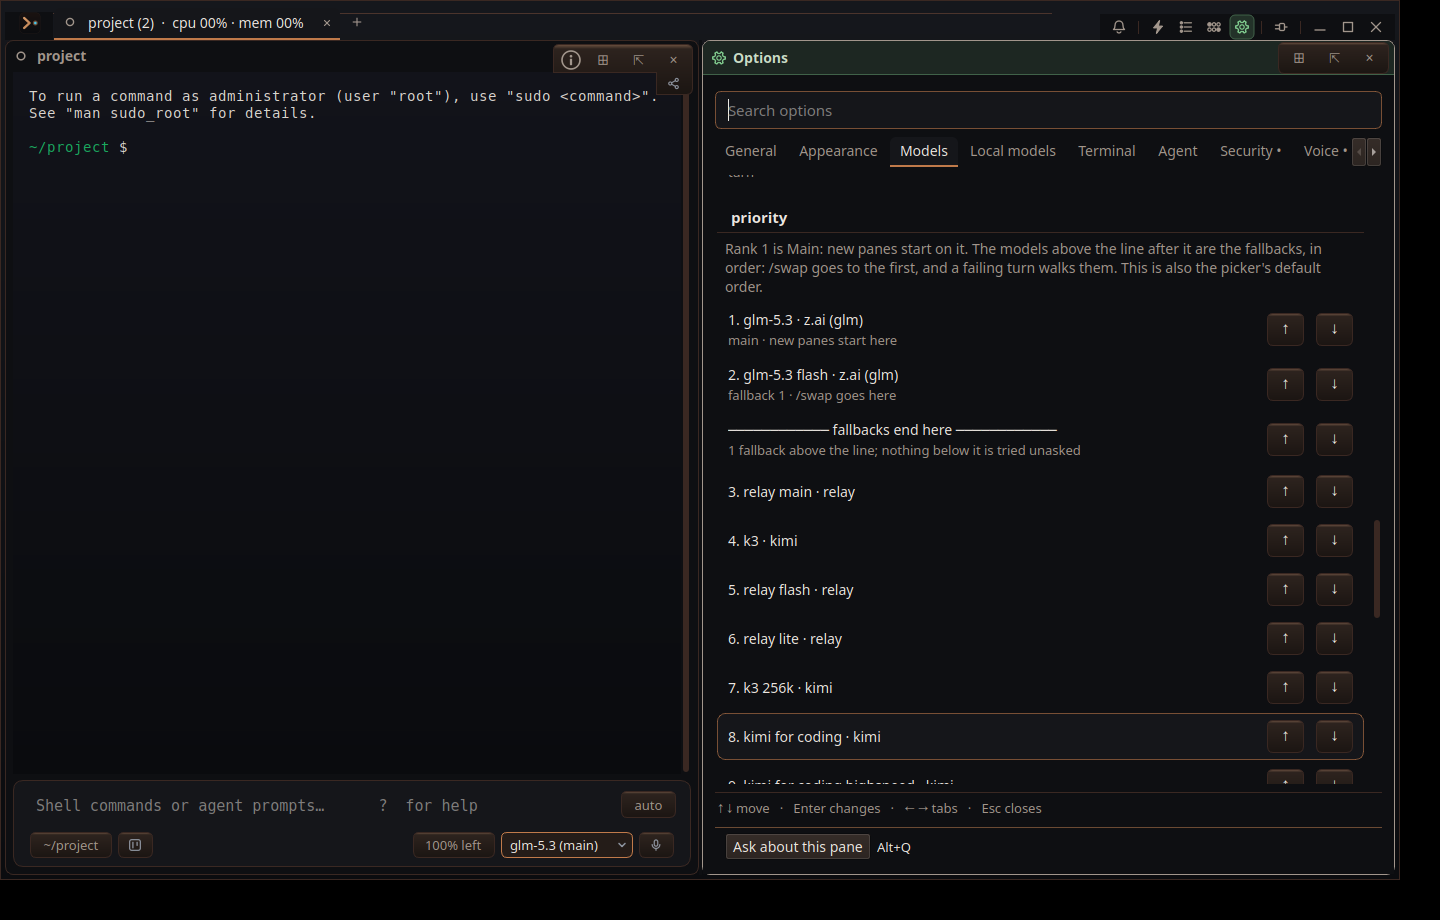
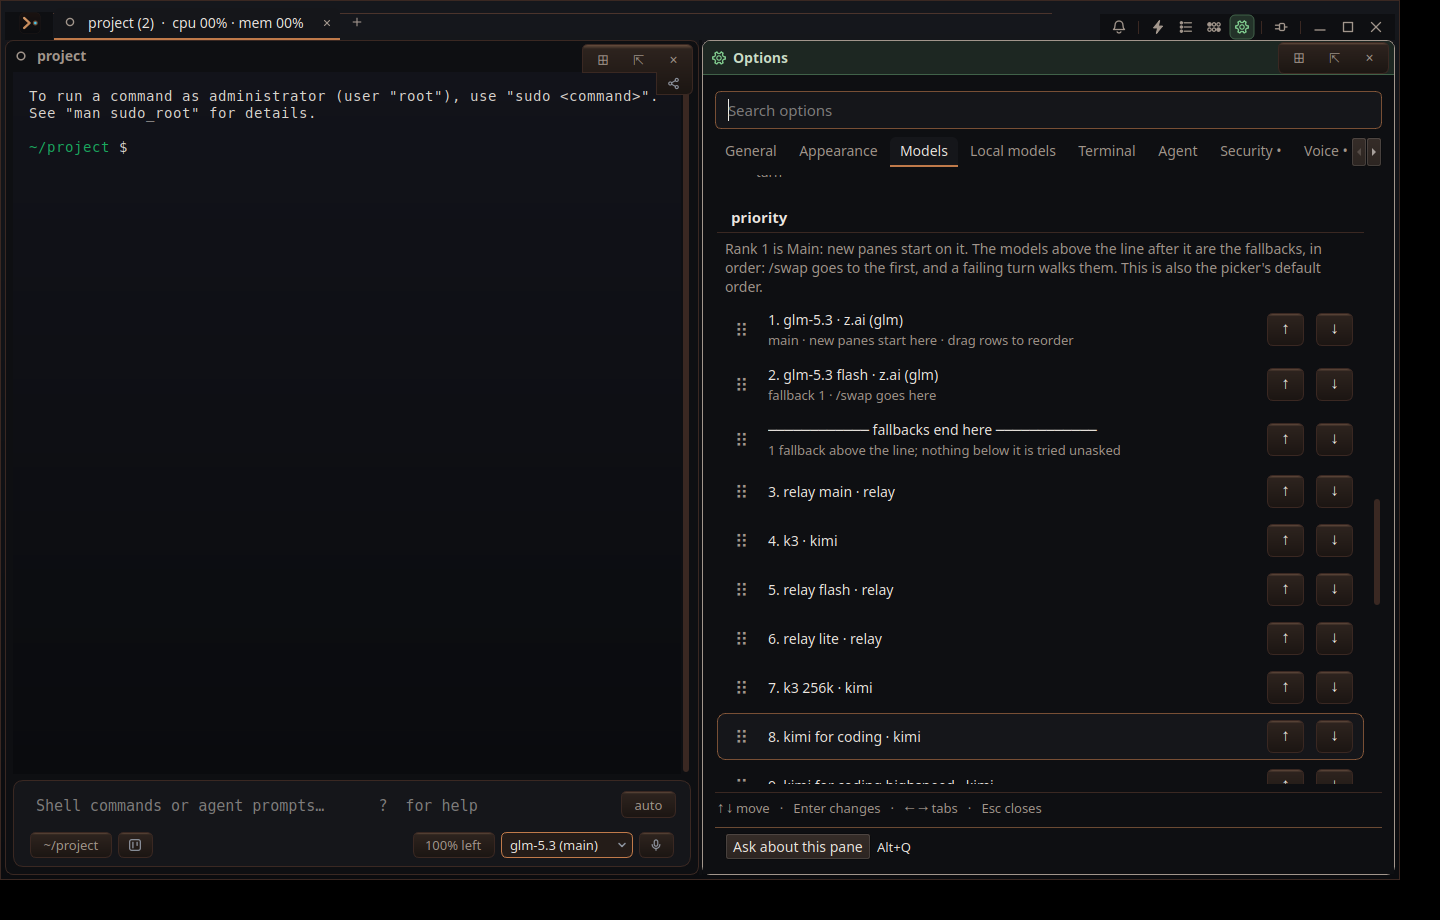
Options › Models: one line per model with the details on hover and ⓘ links; grips on draggable rows; the OpenRouter switch is gone (owner, 2026-09-20)
A provider's row is bold and its models are indented one level; a model row is its name alone,
with the reasoning levels, score and id as the hover text and an ⓘ that opens the model's
OpenRouter page (one page shape for every model) where OpenRouter serves it; a provider's ⓘ opens
its own key page. Rows that can be dragged wear a grip. The per-model 'openrouter fallback' switch
is removed: an OpenRouter model is a model like any other, ranked above the line, so the GUI sends
no failover_openrouter ids.

diff --git a/src/RelayWindow.h b/src/RelayWindow.h
@@ -2059,6 +2059,9 @@ private:
             row.label = label;
             row.detail = status;
             row.aliases = QStringLiteral("provider key api keyring login ") + id + QLatin1Char(' ') + str(preset, "provider").toLower();
+            row.infoUrl = guest ? (id == QStringLiteral("guest:claude") ? QStringLiteral("https://docs.claude.com/en/docs/claude-code")
+                                                                         : QStringLiteral("https://developers.openai.com/codex"))
+                                : str(preset, "key_url");
             row.dragGroup = QStringLiteral("providers");
             row.onDropBefore = [id, curated](const QString &draggedRowId) {
                 relay::models::curation::moveProviderBefore(draggedRowId.section(QLatin1Char(':'), 1), id);
@@ -2119,6 +2122,8 @@ private:
 
         // ----- 2. which models the picker shows -------------------------------------------------
         // One checkbox per provider (owner, 2026-09-20): off hides every model and folds the group.
+        // No per-model "openrouter fallback" here any more (owner, later that day): an OpenRouter
+        // model is a model like any other — add it to the picker and rank it above the line.
         // A provider whose catalog is open-ended (more than six models — OpenRouter's live list)
         // shows only the models you checked plus an id box that completes from the whole list;
         // one whose list is complete (Claude Code, Codex, a plan's three tiers) shows them all and
@@ -2131,11 +2136,6 @@ private:
             info.label = QStringLiteral("A checked model is a row in every pane's model box and in the picker. "
                                         "The reasoning levels are what the model accepts; the level itself is picked per pane.");
             models.rows << info;
-        }
-        bool openrouterKey = false;
-        for (const auto &value : presets) {
-            const QJsonObject preset = value.toObject();
-            if (str(preset, "id") == QStringLiteral("openrouter")) openrouterKey = preset.value(QStringLiteral("has_stored_key")).toBool();
         }
         constexpr int kOpenEnded = 6;   // more catalog models than this: an id box, only the checked shown
         for (const QString &presetId : catalog.presets()) {
@@ -2151,6 +2151,7 @@ private:
             head.detail = collapsed ? QStringLiteral("hidden from the picker · check to show its models")
                                     : QStringLiteral("%1 of %2 models in the picker").arg(shownCount).arg(rows.size());
             head.aliases = QStringLiteral("provider models picker show hide ") + rows.first().provider;
+            head.strong = true;
             head.checked = !collapsed && shownCount > 0;
             head.onToggle = [catalog, presetId, rows, curated](bool on) {
                 relay::models::curation::setCollapsed(presetId, !on);
@@ -2166,45 +2167,34 @@ private:
                 relay::SettingRow row;
                 row.kind = relay::SettingRow::Toggle;
                 row.id = QStringLiteral("option:models/shown/") + entry.key;
-                row.label = QStringLiteral("    ") + entry.label + (entry.custom ? QStringLiteral(" (added by you)") : QString());
+                row.indent = 1;
+                row.label = entry.label + (entry.custom ? QStringLiteral(" (added by you)") : QString());
                 QStringList notes;
                 if (!entry.tier.isEmpty()) notes << QStringLiteral("%1 model").arg(entry.tier);
                 notes << (entry.efforts.isEmpty() ? QStringLiteral("no reasoning setting")
                                                   : QStringLiteral("reasoning ") + entry.efforts.join(QStringLiteral(" · ")));
                 if (entry.intelligence >= 0) notes << QStringLiteral("intelligence %1").arg(entry.intelligence);
                 if (entry.label != entry.model.toLower()) notes << entry.model;
-                row.detail = QStringLiteral("    ") + notes.join(QStringLiteral(" · "));
-                row.aliases = QStringLiteral("model picker show hide ") + entry.model + QLatin1Char(' ') + entry.provider;
+                // One line per model (owner, 2026-09-20): the levels, the score and the id are the
+                // hover, and ⓘ opens the model's OpenRouter page — one page shape for every model,
+                // with context, pricing and the providers behind it — when OpenRouter serves it.
+                row.tooltip = notes.join(QStringLiteral(" · "));
+                if (entry.preset == QStringLiteral("openrouter")) row.infoUrl = QStringLiteral("https://openrouter.ai/") + entry.model;
+                else if (!entry.openrouter.isEmpty()) row.infoUrl = QStringLiteral("https://openrouter.ai/") + entry.openrouter;
+                row.aliases = QStringLiteral("model picker show hide ") + entry.model + QLatin1Char(' ') + entry.provider + QLatin1Char(' ') + row.tooltip;
                 row.checked = relay::models::curation::isShown(entry);
                 row.onToggle = [catalog, key = entry.key, curated](bool on) {
                     relay::models::curation::setShown(key, on, catalog);
                     curated();
                 };
                 models.rows << row;
-                if (openrouterKey && !entry.openrouter.isEmpty() && !entry.guest && !entry.hosted && entry.preset != QStringLiteral("openrouter")) {
-                    // The same model on OpenRouter when this provider fails (owner, 2026-09-20):
-                    // off unless asked for, per model, and only offered once an OpenRouter key is
-                    // stored. Two words; the tooltip-sized detail is the row's aliases.
-                    relay::SettingRow twin;
-                    twin.kind = relay::SettingRow::Toggle;
-                    twin.id = QStringLiteral("option:models/openrouter_fallback/") + entry.key;
-                    twin.label = QStringLiteral("        openrouter fallback");
-                    twin.aliases = QStringLiteral("openrouter fallback failover twin ") + entry.model + QLatin1Char(' ') + entry.openrouter;
-                    twin.checked = relay::models::curation::openrouterFallback(entry.key);
-                    twin.reset = [key = entry.key, this] { relay::models::curation::setOpenrouterFallback(key, false); if (m_active) m_active->agentOptionsChanged(QStringLiteral("models/openrouter_fallback")); };
-                    twin.changed = twin.checked;
-                    twin.onToggle = [this, key = entry.key](bool on) {
-                        relay::models::curation::setOpenrouterFallback(key, on);
-                        if (m_active) m_active->agentOptionsChanged(QStringLiteral("models/openrouter_fallback"));
-                    };
-                    models.rows << twin;
-                }
                 if (entry.custom) {
                     relay::SettingRow remove;
                     remove.kind = relay::SettingRow::Buttons;
                     remove.id = QStringLiteral("models/custom/") + entry.key;
-                    remove.label = QStringLiteral("    remove %1").arg(entry.label);
-                    remove.detail = QStringLiteral("    Forget this id; the provider's own list is unaffected");
+                    remove.indent = 1;
+                    remove.label = QStringLiteral("remove %1").arg(entry.label);
+                    remove.detail = QStringLiteral("Forget this id; the provider's own list is unaffected");
                     remove.buttonTexts = QStringList{QStringLiteral("remove")};
                     remove.onButton = [key = entry.key, curated](int) { relay::models::curation::removeCustom(key); curated(); };
                     models.rows << remove;
@@ -2213,8 +2203,8 @@ private:
             if (openEnded) {
                 // opencode's box: type part of an id and pick from what the provider serves; an id
                 // it does not list is added as typed.
-                relay::SettingRow add = textRow(QStringLiteral("models/add/") + presetId, QStringLiteral("    add a model"),
-                    QStringLiteral("    %1 more on %2 · type to search their ids; an unlisted id is added as typed")
+                relay::SettingRow add = textRow(QStringLiteral("models/add/") + presetId, QStringLiteral("add a model"),
+                    QStringLiteral("%1 more on %2 · type to search their ids; an unlisted id is added as typed")
                         .arg(unlisted.size()).arg(rows.first().provider),
                     QStringLiteral("model id"), [catalog, presetId, curated](const QString &value) {
                         const QString id = value.trimmed();
@@ -2226,6 +2216,7 @@ private:
                         curated();
                     });
                 add.completions = unlisted;
+                add.indent = 1;
                 add.text.clear(); add.changed = false;
                 models.rows << add;
             }
@@ -2237,8 +2228,8 @@ private:
                 const QString key = guestSettingKey(guest, QStringLiteral("permissions"));
                 const QString current = QSettings().value(key).toString().trimmed();
                 relay::SettingRow ask = choiceRow(QStringLiteral("option:") + key,
-                    QStringLiteral("    when it wants to use a tool"),
-                    QStringLiteral("    %1 runs with no per-action approvals, like Relay's own agent. "
+                    QStringLiteral("when it wants to use a tool"),
+                    QStringLiteral("%1 runs with no per-action approvals, like Relay's own agent. "
                                    "Ask me puts each one to you: Allow, Allow for session, "
                                    "Deny, or Deny and stop the turn").arg(rows.first().provider),
                     {QStringLiteral("bypass"), QStringLiteral("ask"), QStringLiteral("deny")},
@@ -2251,6 +2242,7 @@ private:
                         refreshSettingsPanes();
                     });
                 ask.aliases = QStringLiteral("claude codex guest permissions approval ask bypass yolo tools sandbox");
+                ask.indent = 1;
                 models.rows << ask;
             }
         }

diff --git a/src/SettingsPane.cpp b/src/SettingsPane.cpp
@@ -8,6 +8,9 @@
 #include <QComboBox>
 #include <QCoreApplication>
 #include <QDateTime>
+#include <QDesktopServices>
+#include <QToolButton>
+#include <QUrl>
 #include <QDir>
 #include <QDrag>
 #include <QDragEnterEvent>
@@ -604,12 +607,20 @@ QWidget *SettingsPane::settingRow(const SettingRow &row) {
         line->enableDrag();
     }
     auto *box = new QHBoxLayout(line);
-    box->setContentsMargins(10, 6, 10, 6);
+    box->setContentsMargins(10 + 28 * qMax(0, row.indent), 6, 10, 6);
     box->setSpacing(12);
+    if (!row.dragGroup.isEmpty()) {
+        // A grip, so a row that can be dragged looks like one (owner, 2026-09-20: the priority
+        // list "should also be draggable, not just arrows" — it was, and nothing said so).
+        auto *grip = mutedLabel(QStringLiteral("⠿"), "settingsGrip");
+        grip->setToolTip(QStringLiteral("Drag to reorder"));
+        grip->setCursor(Qt::OpenHandCursor);
+        box->addWidget(grip);
+    }
     auto *text = new QVBoxLayout;
     text->setSpacing(1);
     auto *label = new QLabel(row.label);
-    label->setObjectName(QStringLiteral("settingsRowLabel"));
+    label->setObjectName(row.strong ? QStringLiteral("settingsRowLabelStrong") : QStringLiteral("settingsRowLabel"));
     label->setWordWrap(true);
     label->setTextFormat(Qt::PlainText);
     text->addWidget(label);
@@ -630,6 +641,19 @@ QWidget *SettingsPane::settingRow(const SettingRow &row) {
     label->setMinimumWidth(std::min(words + 2, metrics.averageCharWidth() * 18));
     box->addLayout(text, 1);
 
+    if (!row.tooltip.isEmpty()) { line->setToolTip(row.tooltip); label->setToolTip(row.tooltip); }
+    if (!row.infoUrl.isEmpty()) {
+        auto *info = new QToolButton;
+        info->setObjectName(QStringLiteral("settingsInfoLink"));
+        info->setText(QStringLiteral("ⓘ"));
+        info->setAutoRaise(true);
+        info->setCursor(Qt::PointingHandCursor);
+        info->setFocusPolicy(Qt::NoFocus);
+        info->setToolTip(QStringLiteral("About this: %1").arg(row.infoUrl));
+        info->setAccessibleName(QStringLiteral("About %1").arg(row.label));
+        connect(info, &QToolButton::clicked, this, [url = row.infoUrl] { QDesktopServices::openUrl(QUrl(url)); });
+        box->addWidget(info);
+    }
     // Every control writes through the row's callback and then says so, which redraws this pane —
     // so rows that describe other rows ("Flash · glm-5.3-flash") never go stale — and every other
     // Options pane with it. Focus and scroll survive the rebuild, and the rebuild happens on the

diff --git a/src/Pane.h b/src/Pane.h
@@ -4139,10 +4139,6 @@ private:
                 // because a pane on the user's own key never chose Relay's hosted service).
                 {"failover", settings.value(QStringLiteral("agent/failover"), true).toBool()},
                 {"failover_hosted", settings.value(QStringLiteral("agent/failover_hosted"), false).toBool()},
-                // The models the user wants tried as the same model on OpenRouter when their own
-                // provider fails (owner, 2026-09-20): per model, off by default. Always sent, so
-                // an emptied list reaches the worker as "none" rather than "unchanged".
-                {"failover_openrouter", QJsonArray::fromStringList(relay::models::curation::openrouterFallbackModels())},
                 // Rank 2 of Options › Models' priority list (owner, 2026-09-20): the model a failing
                 // turn is moved to first. Written by rememberFallback whenever the list or the
                 // catalog changes; null until there is a second ranked model.

diff --git a/src/SettingsPane.h b/src/SettingsPane.h
@@ -76,6 +76,15 @@ struct SettingRow {
     // meaning "put that one before me"; the caller persists the order and the pane redraws.
     QString dragGroup;
     std::function<void(const QString &draggedRowId)> onDropBefore;
+    // Hierarchy inside a section: a group's own row is `strong` (bold label) and the rows under
+    // it are indented one level (Options › Models: a provider and its models).
+    int indent = 0;
+    bool strong = false;
+    // Hover text for the whole row, and a page to read more (an ⓘ button before the control):
+    // Options › Models keeps a model's reasoning levels, score and id in the hover so the list
+    // stays one line per model (owner, 2026-09-20).
+    QString tooltip;
+    QString infoUrl;
     int number = 0, minimum = 0, maximum = 0;               // Number
     QString suffix;
     std::function<void(int)> onNumber;

diff --git a/src/Theme.cpp b/src/Theme.cpp
@@ -462,6 +462,8 @@ QLabel#settingsHeading { color: @text; font-size: 11pt; font-weight: 700; paddin
 QLabel#settingsSubheading { color: @text; font-size: 10pt; font-weight: 600; }
 QFrame#settingsRow { background: transparent; border: 1px solid transparent; border-radius: 8px; }
 QFrame#settingsRow:hover { background: @surface; }
+QLabel#settingsRowLabelStrong { font-weight: 600; }
+QLabel#settingsGrip { color: @muted; font-size: 13pt; padding: 0 2px; }
 QFrame#settingsRow[dropTarget="true"] { border-top: 2px solid @accent; }
 QFrame#settingsRow[current="true"] { background: @surface; border-color: @accentBorder; }
 QLabel#settingsRowLabel { color: @text; }

diff --git a/docs/ARCHITECTURE.md b/docs/ARCHITECTURE.md
@@ -1866,8 +1866,8 @@ measured, against 2.3–4.9 s for Gemini 3.8 Flash), so the Lite row must not mo
   the turn's terminal event, puts all of it back, so the pane keeps the model the user chose; if the
   chain ends in failure the turn reports the *first* provider's error, not the last one's. Options ›
   Models can turn it off (`agent/failover`). **The chain is the priority list** (owner, 2026-09-20):
-  the models above the "fallbacks end here" line, in order, as the `fallbacks` option, then the
-  same model on OpenRouter for the models opted in (`failover_openrouter`), and nothing else. Relay
+  the models above the "fallbacks end here" line, in order, as the `fallbacks` option, and nothing
+  else (the worker's `failover_openrouter` twin step is still there but the GUI sends no ids). Relay
   Free is a fallback only when it sits above the line, which replaced the `failover_hosted` switch
   of 2026-09-19 (still accepted from older GUIs and ignored).
   **Subagents fail over on the pane's chain**: `subagents.py` hands each one the pane's role

diff --git a/README.md b/README.md
@@ -67,9 +67,8 @@ that conflict.
    add key… for one of them (or Actions › API keys… to **Import from Warp** or **from Claude Code /
    Codex**; **test** checks the key reaches the provider) — then **models in the picker**, a
    checklist of each provider's models, then **priority**: rank 1 is Main, what new panes start
-   on; rank 2 is the fallback `/swap` and failover go to. Under a model that OpenRouter also
-   serves, one more switch: continue on the same model through your OpenRouter key when its own
-   provider fails — off unless you turn it on for that model. Claude Code and Codex, when
+   on; the models above the line after it are the fallbacks, in order — an OpenRouter model
+   ranked there is how "the same model on OpenRouter" is done. Claude Code and Codex, when
    installed, are providers there like any other.
 2. Type `git status` and press Enter. It runs in the terminal.
 3. Type `why is this build failing?` and press Enter. The agent answers inline.
